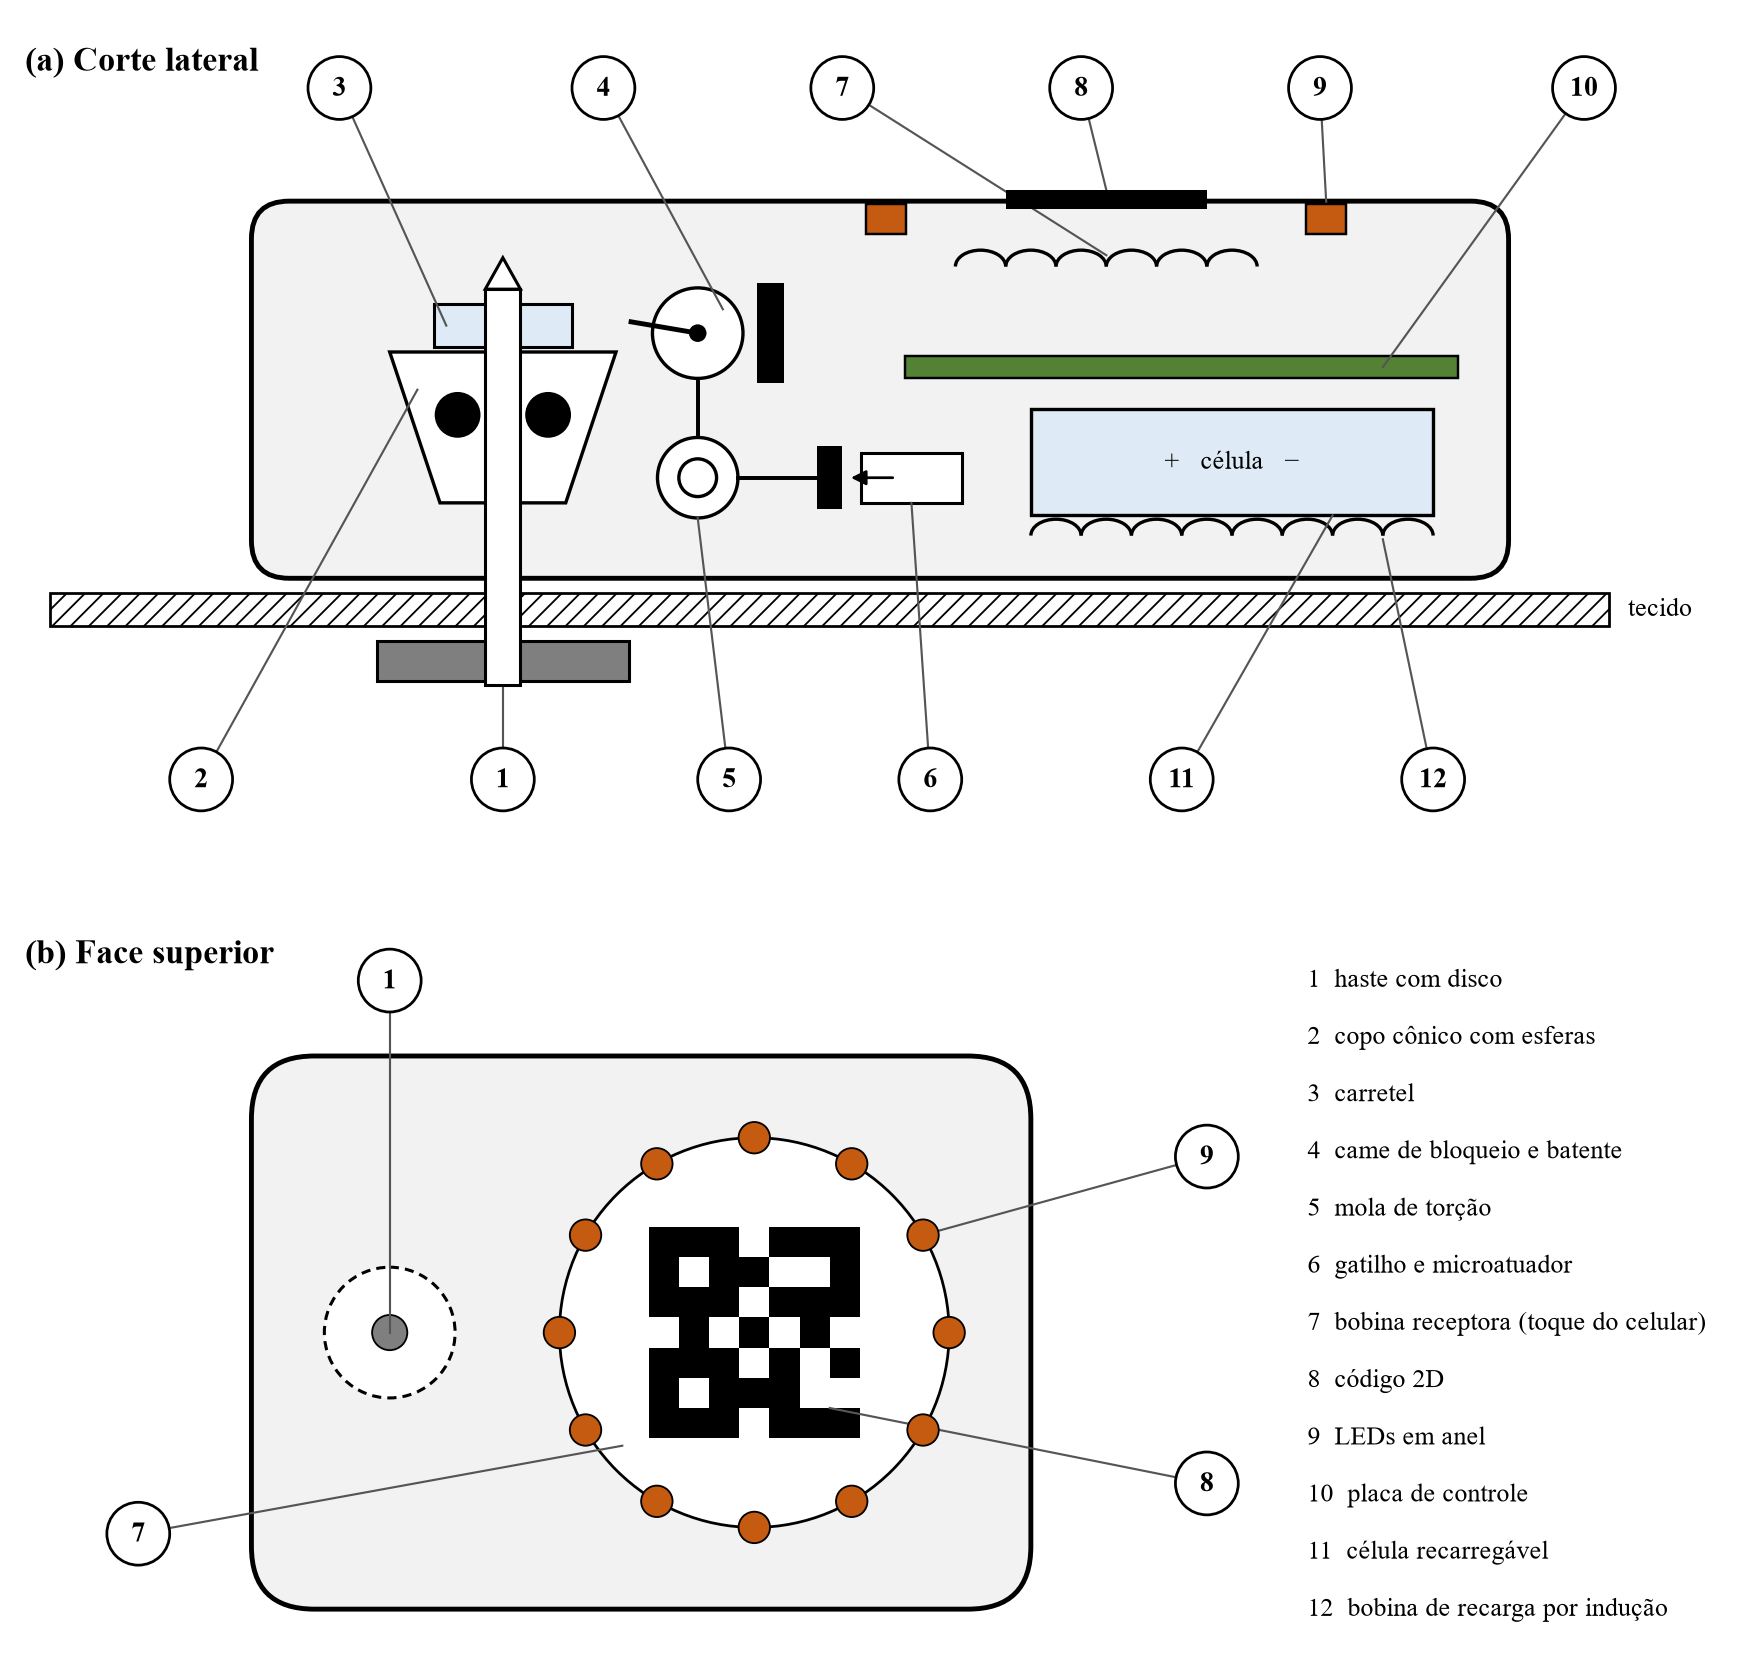
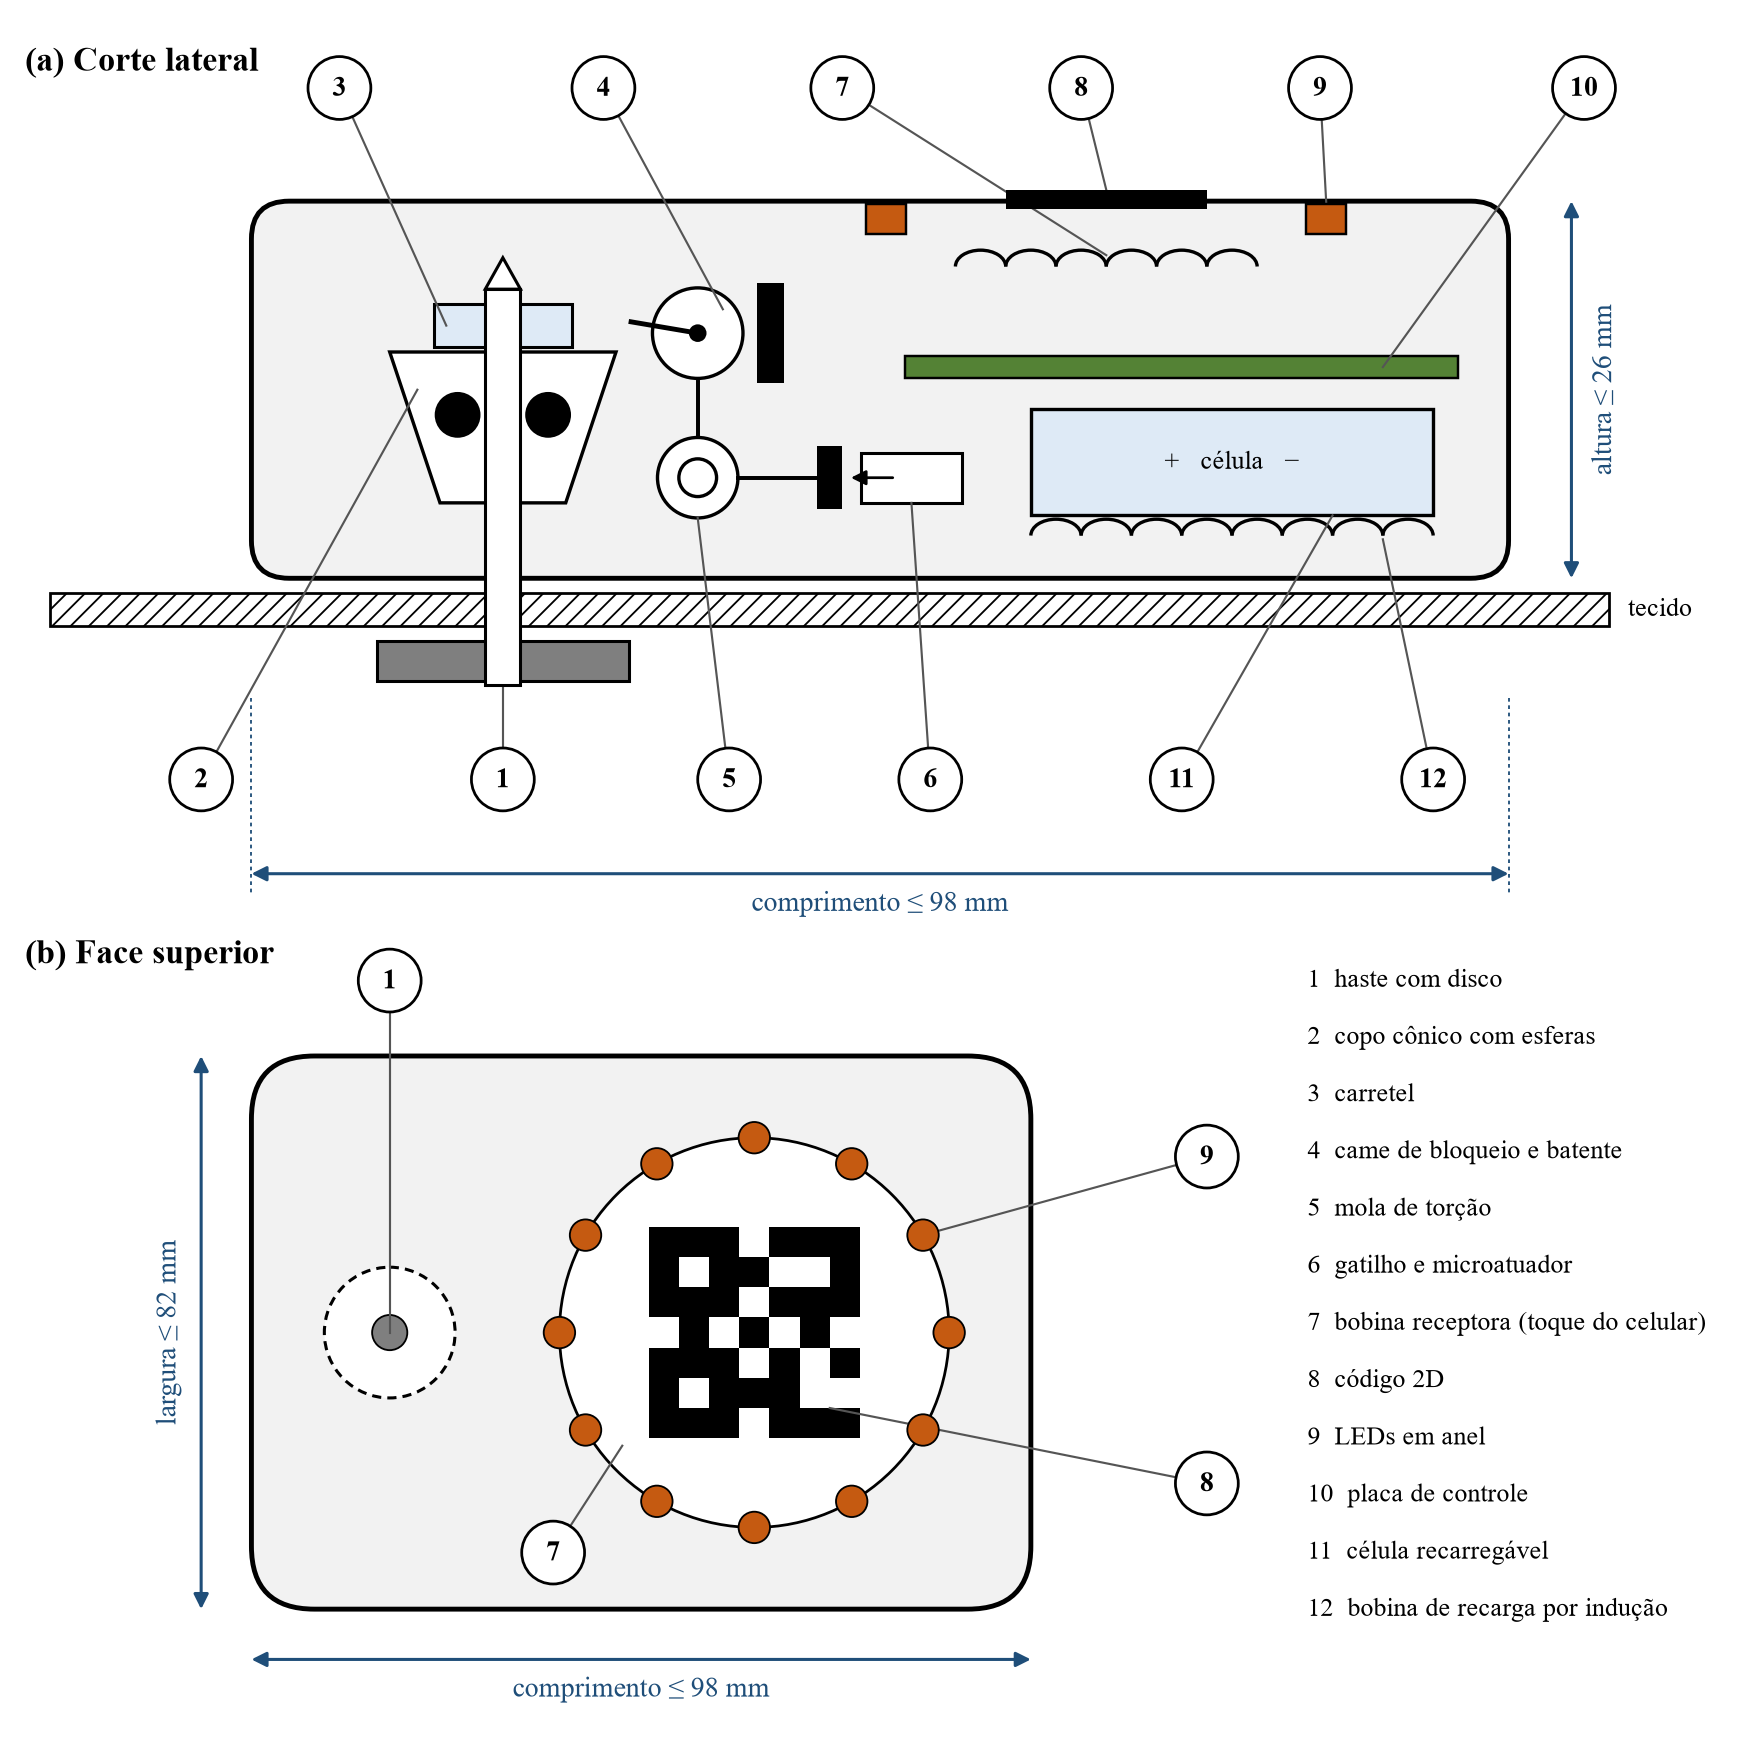
Desenho reformulado: acrescenta as cotas do envelope maximo (E10)

diff --git a/2-conteudo/14-reformulacao_dos_desenhos_iniciais.tex b/2-conteudo/14-reformulacao_dos_desenhos_iniciais.tex
@@ -99,11 +99,11 @@ As notas são avaliações da equipe a partir das revisões da Galeria e das ref
 \subsection{Desenho reformulado}
 \label{subsec:reform_desenho}
 
-O desenho reformulado manteve do desenho inicial a retenção da haste por embreagem de esferas e substituiu a forma de liberar, de receber a autorização, de indicar a liberação e de repor a energia (Figura~\ref{fig:reform_desenho}). O esquema representa a arquitetura do dispositivo por seus sistemas, subsistemas e componentes e pelas interfaces entre eles, que é o nível de detalhe previsto para o projeto conceitual \cite{rozenfeld2006gestao}. Os doze elementos numerados formam cinco subsistemas: retenção (1 a 4), liberação (5 e 6), identificação e autorização (7 e 8), indicação (9) e controle e energia (10 a 12). O esquema está fora de escala, e as formas, as dimensões e os materiais serão definidos no projeto detalhado.
+O desenho reformulado manteve do desenho inicial a retenção da haste por embreagem de esferas e substituiu a forma de liberar, de receber a autorização, de indicar a liberação e de repor a energia (Figura~\ref{fig:reform_desenho}). O esquema representa a arquitetura do dispositivo por seus sistemas, subsistemas e componentes e pelas interfaces entre eles, que é o nível de detalhe previsto para o projeto conceitual \cite{rozenfeld2006gestao}. Os doze elementos numerados formam cinco subsistemas: retenção (1 a 4), liberação (5 e 6), identificação e autorização (7 e 8), indicação (9) e controle e energia (10 a 12). O esquema está fora de escala. As cotas indicam o envelope máximo de 98 por 82 por 26\,mm, fixado na especificação E10, dentro do qual o mecanismo terá de caber. As formas, as dimensões de cada componente e os materiais serão definidos no projeto detalhado.
 
 \begin{figure}[htbp]
     \centering
-    \caption{Esquema do dispositivo reformulado, em corte lateral e na face superior, sem escala}
+    \caption{Esquema do dispositivo reformulado, em corte lateral e na face superior, sem escala. As cotas indicam o envelope máximo da especificação E10}
     \includegraphics[width=\textwidth]{imagens/reformulacao_desenhos/desenho_reformulado.png}
     \label{fig:reform_desenho}
     \source{Elaborado pelos autores (2026).}
